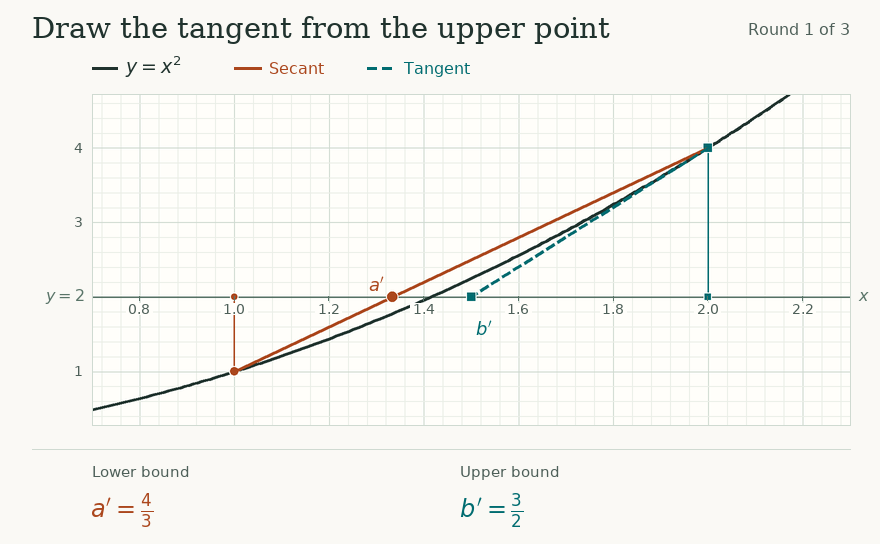
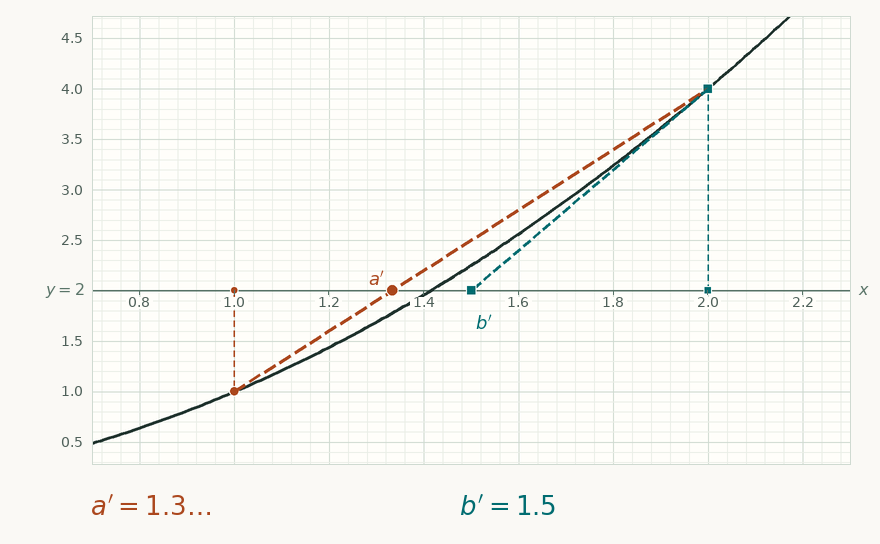
Show matching decimal digits and dash the square-root construction lines

diff --git a/book/foundation-preface/content.html b/book/foundation-preface/content.html
@@ -17,7 +17,7 @@
 <h2 id="square-root-opening">A first look at a real-number computation</h2>
 <p>Start with \([1,2]\) for \(\sqrt{2}\). Draw a secant through the corresponding points on \(y=x^2\) and a tangent at the right endpoint. Their intersections with \(y=2\) give the next lower and upper bounds, \([4/3,3/2]\).</p>
 <figure id="fig:sqrt-secant-tangent">
-<picture><source media="(prefers-reduced-motion: reduce)" srcset="foundation-preface/sqrt-secant-zoom.png"><img src="foundation-preface/sqrt-secant-zoom.gif" width="880" height="544" style="max-width:100%;height:auto" alt="Vertical guides locate the two points on the parabola. The solid secant gives the lower bound and the dashed tangent gives the upper bound. Each zoom separates the two crossings."></picture>
+<picture><source media="(prefers-reduced-motion: reduce)" srcset="foundation-preface/sqrt-secant-zoom.png"><img src="foundation-preface/sqrt-secant-zoom.gif" width="880" height="544" style="max-width:100%;height:auto" alt="Dashed guides reach the parabola. The dashed secant marks the lower bound with an orange circle and the dashed tangent marks the upper bound with a teal square. Each zoom separates the crossings. The decimal labels show the first digit where the bounds differ."></picture>
 <figcaption>Read \(x\) along the line \(y=2\). The secant crosses it at the new \(a\), and the tangent at the new \(b\). Zoom in and use those two crossings to start the next round.</figcaption>
 </figure>
 

diff --git a/scripts/generate_sqrt_zoom.py b/scripts/generate_sqrt_zoom.py
@@ -13,22 +13,17 @@ from matplotlib.font_manager import FontProperties
 from matplotlib.mathtext import MathTextParser
 from PIL import Image, ImageColor, ImageDraw, ImageFont
 
+from preface_sqrt_tables import decimal
+
 ROOT = Path(__file__).resolve().parents[1]
 W, H = 880, 544
-L, T, R, B = 92, 94, 850, 425
+L, T, R, B = 92, 16, 850, 464
 PW, PH = R-L, B-T
 PAPER, PLOT = '#faf9f5', '#fffefa'
 INK, MUTED, AXIS = '#20332e', '#4e6059', '#597468'
 LOW, HIGH = '#ab471d', '#006c70'
 GRID, MINOR = '#cfdad1', '#eaeee7'
-TITLES = {
-    'start': 'Begin with the two bounds',
-    'project': 'Find both points on the parabola',
-    'secant': 'Trace the secant through the two points',
-    'tangent': 'Draw the tangent from the upper point',
-    'zoom': 'Zoom in on the two crossings',
-    'end': 'Read the tighter bracket',
-}
+PHASES = ('start', 'project', 'secant', 'tangent', 'zoom', 'end')
 MATH = MathTextParser('agg')
 
 
@@ -63,10 +58,20 @@ def math_label(image, x, y, tex, size, color, anchor='left'):
     image.paste(color, (round(x-offset), round(y-mask.height/2)), mask)
 
 
-def fraction_tex(q):
-    if q.denominator == 1:
-        return str(q.numerator)
-    return rf'\frac{{{q.numerator}}}{{{q.denominator}}}'
+def decimal_bounds(a, b):
+    """Show the first differing digit of the two exact decimal expansions."""
+    assert 0 <= a < b
+    places, scale = 0, 1
+    while a*scale // 1 == b*scale // 1:
+        places += 1
+        scale *= 10
+    labels = []
+    for q in (a, b):
+        label = decimal(q, places)
+        if (q*scale).denominator != 1:
+            label += r'\ldots' if places else r'.\ldots'
+        labels.append(label)
+    return labels
 
 
 def camera(bounds):
@@ -105,9 +110,8 @@ def render(bounds, stage, phase, progress=1):
     x = lambda v: PW*(.5+(v-cx)/sx)
     y = lambda v: PH*(.5-(v-cy)/sy)
     level = y(2)
-    phase_order = list(TITLES)
     def amount(step):
-        difference = phase_order.index(phase)-phase_order.index(step)
+        difference = PHASES.index(phase)-PHASES.index(step)
         return progress if difference == 0 else float(difference > 0)
     guide, chord, tangent = (amount(name) for name in ('project', 'secant', 'tangent'))
     # Render plot strokes at double resolution and clip to the plot throughout.
@@ -116,6 +120,26 @@ def render(bounds, stage, phase, progress=1):
     def line(points, color, width=1):
         pen.line([(round(2*u), round(2*v)) for u, v in points], fill=color,
                  width=round(2*width), joint='curve')
+    def dashed_line(start, finish, color, width, dash, gap):
+        dx, dy = finish[0]-start[0], finish[1]-start[1]
+        length = math.hypot(dx, dy)
+        if not length:
+            return
+        ux, uy = dx/length, dy/length
+        # Keep the dash pattern anchored to the starting point while zooming.
+        # Clip the distance range before drawing, since the endpoints can be far offscreen.
+        first, last = 0, length
+        for origin, direction, limit in ((start[0], ux, PW), (start[1], uy, PH)):
+            if direction:
+                entry, exit_ = sorted(((-width-origin)/direction, (limit+width-origin)/direction))
+                first, last = max(first, entry), min(last, exit_)
+            elif not -width <= origin <= limit+width:
+                return
+        period = dash+gap
+        for n in range(math.floor(first/period), math.ceil(last/period)):
+            left, right = max(first, n*period), min(last, n*period+dash)
+            if left < right:
+                line([(start[0]+ux*d, start[1]+uy*d) for d in (left, right)], color, width)
     def marker(u, v, color, square=False, size=4):
         box = ((u-size)*2, (v-size)*2, (u+size)*2, (v+size)*2)
         shape = pen.rectangle if square else pen.ellipse
@@ -136,26 +160,16 @@ def render(bounds, stage, phase, progress=1):
     for v, color, square in ((a, LOW, False), (b, HIGH, True)):
         if -8 < x(v) < PW+8:
             tip = level+(y(v*v)-level)*guide
-            line([(x(v),level), (x(v),tip)], color, 1.6)
+            dashed_line((x(v),level), (x(v),tip), color, 1.6, 6, 4)
             marker(x(v),level,color,square)
             if guide:
                 marker(x(v),tip,color,square,5)
     if chord:
         tip = a+(b-a)*chord
-        line([(x(a),y(a*a)),(x(tip),y(a*a+(a+b)*(tip-a)))], LOW, 3)
+        dashed_line((x(a),y(a*a)), (x(tip),y(a*a+(a+b)*(tip-a))), LOW, 3, 13, 5)
     if tangent:
-        # A broken stroke keeps the two lines distinguishable when nearly parallel.
-        start_x, start_y = x(b), y(b*b)
-        stop_x, stop_y = x(b+(new_b-b)*tangent), y(b*b+(2-b*b)*tangent)
-        dx, dy = stop_x-start_x, stop_y-start_y
-        length = math.hypot(dx,dy)
-        if length:
-            # Only dashes near the visible panel are needed during deep zooms.
-            near = max(0, (start_x-PW-12)/(-dx)) if dx < 0 else 0
-            far = min(1, (start_x+12)/(-dx)) if dx < 0 else 1
-            for n in range(math.floor(near*length/13), math.ceil(far*length/13)):
-                t0, t1 = max(0,n*13/length), min(1,(n*13+9)/length)
-                line([(start_x+t0*dx,start_y+t0*dy),(start_x+t1*dx,start_y+t1*dy)],HIGH,3)
+        stop = (x(b+(new_b-b)*tangent), y(b*b+(2-b*b)*tangent))
+        dashed_line((x(b),y(b*b)), stop, HIGH, 3, 9, 4)
     lower_hit = chord >= (new_a-a)/(b-a)
     upper_hit = tangent == 1
     if lower_hit:
@@ -184,26 +198,12 @@ def render(bounds, stage, phase, progress=1):
         math_label(scene,L+x(new_a)-8,T+level-13,"a'",18,LOW,'right')
     if upper_hit:
         math_label(scene,L+x(new_b)+5,T+level+31,"b'",18,HIGH)
-    title = 'Use the crossings as the new bounds' if stage and phase == 'start' else TITLES[phase]
-    draw.text((32,28),title,font=font(29,'Serif'),fill=INK,anchor='lm')
-    draw.text((R,29),f'Round {stage+1} of 3',font=font(16),fill=MUTED,anchor='rm')
-    # The key uses the same line patterns as the construction.
-    draw.line((L,68,L+25,68),fill=INK,width=3)
-    math_label(scene,L+33,67,'y=x^2',19,INK)
-    draw.line((L+142,68,L+169,68),fill=LOW,width=3)
-    draw.text((L+177,68),'Secant',font=font(16),fill=LOW,anchor='lm')
-    for shift in (0,15):
-        draw.line((L+275+shift,68,L+284+shift,68),fill=HIGH,width=3)
-    draw.text((L+312,68),'Tangent',font=font(16),fill=HIGH,anchor='lm')
-    draw.line((32,449,R,449),fill=GRID)
-    for u, name, i, reached, color, label in (
-        (L, 'a', 0, lower_hit, LOW, 'Lower bound'),
-        (W//2+20, 'b', 1, upper_hit, HIGH, 'Upper bound'),
+    lower, upper = decimal_bounds(bounds[stage+int(lower_hit)][0], bounds[stage+int(upper_hit)][1])
+    for u, name, value, reached, color in (
+        (L, 'a', lower, lower_hit, LOW), (W//2+20, 'b', upper, upper_hit, HIGH),
     ):
-        draw.text((u,472),label,font=font(15),fill=MUTED,anchor='lm')
         prime = "'" if reached else ''
-        q = bounds[stage+int(reached)][i]
-        math_label(scene,u,510,name+prime+'='+fraction_tex(q),24,color)
+        math_label(scene,u,504,name+prime+'='+value,26,color)
     return scene
 
 

diff --git a/scripts/apply_chapter_gifs.py b/scripts/apply_chapter_gifs.py
@@ -58,12 +58,12 @@ def update_figure(site):
     caption = re.search(r'<figcaption>(.*?)</figcaption>',figure,re.S)[1]
     chapter = site/'ch-foundations.html'
     original = chapter.read_text()
-    pattern = r'(<figure id="fig:sqrt-secant-tangent">\s*<div class="centered">)<img [^>]+>'
-    updated, count = re.subn(pattern,lambda m: m[1]+picture,original)
-    assert count == 1, 'square-root chapter image missing'
-    old = r'Secant–tangent rational enclosures for \(\sqrt2\).'
-    assert updated.count(old) == 1
-    chapter.write_text(updated.replace(old,caption))
+    pattern = (r'(<figure id="fig:sqrt-secant-tangent">\s*<div class="centered">)'
+               r'(?:<picture>.*?</picture>|<img [^>]+>)'
+               r'(\s*<figcaption>.*?<span class="caption_text">).*?(</span>)')
+    updated, count = re.subn(pattern,lambda m: m[1]+picture+m[2]+caption+m[3],original,flags=re.S)
+    assert count == 1, 'square-root chapter figure missing'
+    chapter.write_text(updated)
     preface = site/'preface.html'
     original = preface.read_text()
     if 'id="fig:sqrt-secant-tangent"' in original:
